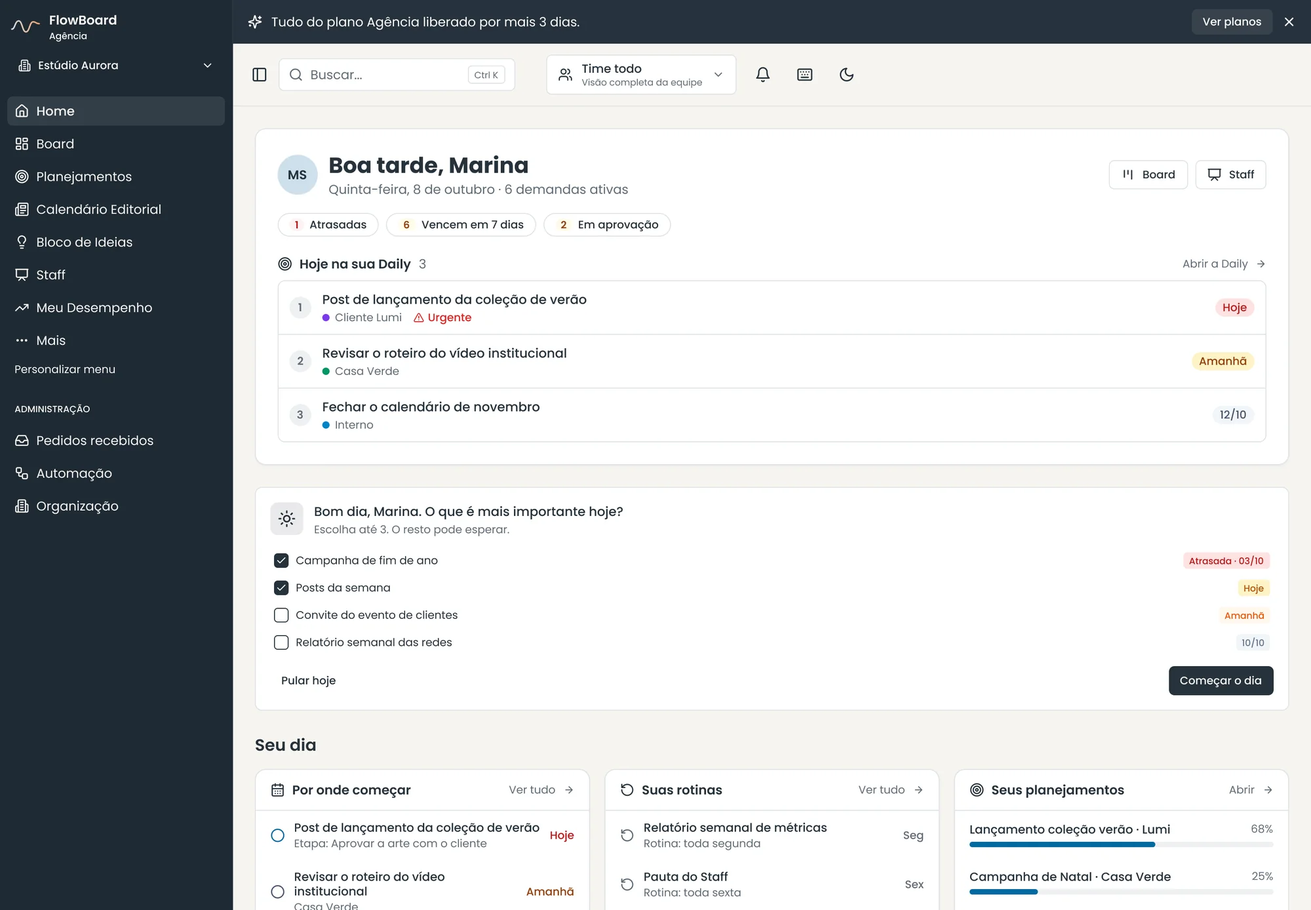
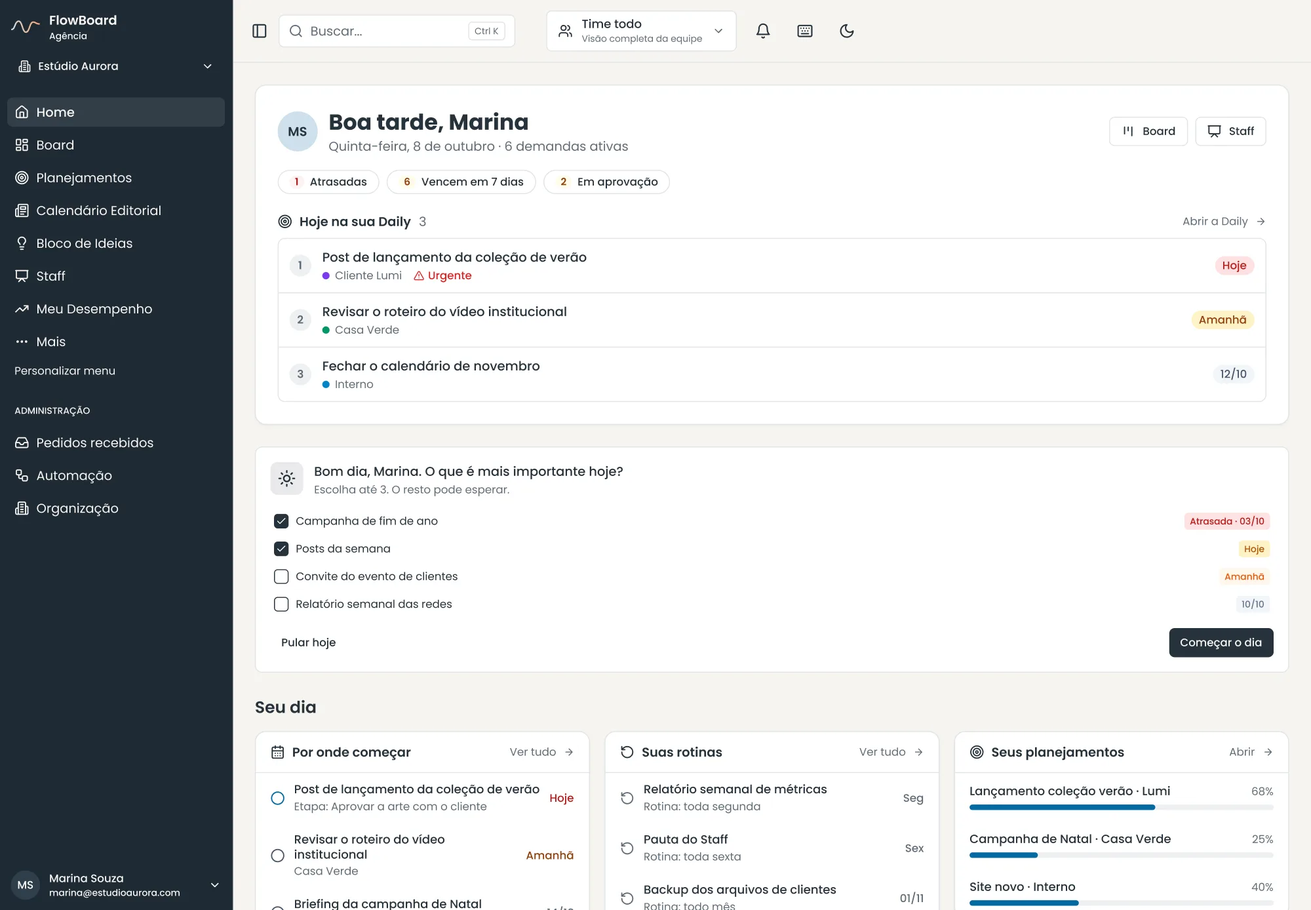
FlowBoard: processo como linha do tempo com status, números que contam, aprendizados em cartões, próximos passos em checklist; recortes próprios nos cartões de público; Home sem a faixa do plano

diff --git a/flowboard/index.html b/flowboard/index.html
@@ -85,7 +85,7 @@
     <h2 class="cs__h">Para quem é</h2>
     <div class="cs__body cs__body--wide"><p class="study-who__intro">Para times que vivem de pedido e prazo: comunicação, marketing, criação, agências e estúdios que atendem vários clientes ou áreas ao mesmo tempo. O produto tem dois lados, e uma pessoa que pode estar em qualquer um deles.</p>
       <p class="hand study-who__note" aria-hidden="true">a mesma pessoa pode ser as três<svg viewBox="0 0 60 40"><path d="M6 6 C 20 8, 40 14, 48 34 M 40 29 L 48 35 L 53 26"/></svg></p>
-      <ul class="who-cards"><li class="who-card"><figure class="zoom"><img style="object-position:left top" src="../assets/img/fb-avisos.webp" alt="Demanda aberta com status, aprovador e comentários" loading="lazy" width="2000" height="1318"></figure><div><b>Quem pede</b><p>Quer abrir o pedido em poucos campos e acompanhar o andamento sem mandar mensagem perguntando.</p></div></li><li class="who-card"><figure class="zoom"><img style="object-position:40% 30%" src="../assets/img/fb-daily.webp" alt="Daily da semana, com o que fazer em cada dia" loading="lazy" width="2000" height="1388"></figure><div><b>Quem atende</b><p>Precisa de uma fila clara, saber o que fazer agora e conseguir mostrar o que está parado e por quê.</p></div></li><li class="who-card"><figure class="zoom"><img style="object-position:center 8%" src="../assets/img/fb-foco.webp" alt="Configurações de foco e bem-estar no celular" loading="lazy" width="780" height="1688"></figure><div><b>Quem se distrai fácil</b><p>Trava na hora de começar ou perde a noção do tempo. Essa pessoa não é um caso à parte: é o critério de desenho.</p></div></li></ul>
+      <ul class="who-cards"><li class="who-card"><figure class="zoom"><img style="--z:1;transform-origin:50% 50%;object-position:50% 50%" src="../assets/img/fb-who-pede.webp" alt="Demanda aberta com status, aprovador e comentários" loading="lazy" width="960" height="720"></figure><div><b>Quem pede</b><p>Quer abrir o pedido em poucos campos e acompanhar o andamento sem mandar mensagem perguntando.</p></div></li><li class="who-card"><figure class="zoom"><img style="--z:1;transform-origin:50% 50%;object-position:50% 50%" src="../assets/img/fb-who-atende.webp" alt="Daily da semana, com o que fazer em cada dia" loading="lazy" width="960" height="720"></figure><div><b>Quem atende</b><p>Precisa de uma fila clara, saber o que fazer agora e conseguir mostrar o que está parado e por quê.</p></div></li><li class="who-card"><figure class="zoom"><img style="--z:1;transform-origin:50% 50%;object-position:50% 50%" src="../assets/img/fb-who-foco.webp" alt="Configurações de foco e bem-estar no celular" loading="lazy" width="960" height="720"></figure><div><b>Quem se distrai fácil</b><p>Trava na hora de começar ou perde a noção do tempo. Essa pessoa não é um caso à parte: é o critério de desenho.</p></div></li></ul>
     </div>
   </section>
 
@@ -118,14 +118,15 @@
   <section class="wrap cs">
     <h2 class="cs__h">O processo</h2>
     <div class="cs__body"><p>Boa parte desse processo ganhou método na Pós-Graduação em UX/UI e Produtos Digitais da EBAC, que estou terminando. Usei o FlowBoard como objeto de todos os exercícios, então cada etapa abaixo foi feita no produto de verdade, não num caso inventado.</p>
-      <ol class="study-proc"><li><b>Pesquisa de campo</b><p>28 respondentes e uma pergunta aberta que mudou a prioridade do produto: a espera pesava mais do que a distração.</p></li><li><b>Heurísticas e referências</b><p>Analisei ferramentas de gestão pela lente de memória de trabalho, percepção de tempo e carga de estímulo.</p></li><li><b>Baixa fidelidade</b><p>Wireframes para acertar a hierarquia de cada tela antes de pensar em cor.</p></li><li><b>Design system</b><p>Cores, tipografia, espaçamento e componentes no Figma, com variáveis de claro e escuro iguais aos tokens do código.</p></li><li><b>Protótipo de alta fidelidade</b><p>Mais de 120 telas no Figma, com os fluxos principais navegáveis no computador e no celular.</p></li><li><b>Teste de usabilidade</b><p>Roteiro de teste não moderado com quatro hipóteses e duas missões: criar uma demanda e concluir uma etapa. Montei no Maze com o protótipo do Figma, defini o caminho esperado de cada missão e fiz o teste completo antes de liberar. A rodada com cinco participantes é o próximo passo.</p></li><li><b>Código</b><p>Eu mesmo programo o que desenho, em React e TypeScript. A distância entre decidir e ver a tela funcionando fica curta.</p></li></ol>
+      <div class="proc-bar"><span>Etapas do processo</span><i style="--v:71%"></i><b>5/7</b></div>
+      <ol class="study-proc"><li class="is-done"><div class="study-proc__t"><b>Pesquisa de campo</b><em class="pill pill--done">Concluído</em></div><p>28 respondentes e uma pergunta aberta que mudou a prioridade do produto: a espera pesava mais do que a distração.</p></li><li class="is-done"><div class="study-proc__t"><b>Heurísticas e referências</b><em class="pill pill--done">Concluído</em></div><p>Analisei ferramentas de gestão pela lente de memória de trabalho, percepção de tempo e carga de estímulo.</p></li><li class="is-done"><div class="study-proc__t"><b>Baixa fidelidade</b><em class="pill pill--done">Concluído</em></div><p>Wireframes para acertar a hierarquia de cada tela antes de pensar em cor.</p></li><li class="is-done"><div class="study-proc__t"><b>Design system</b><em class="pill pill--done">Concluído</em></div><p>Cores, tipografia, espaçamento e componentes no Figma, com variáveis de claro e escuro iguais aos tokens do código.</p></li><li class="is-done"><div class="study-proc__t"><b>Protótipo de alta fidelidade</b><em class="pill pill--done">Concluído</em></div><p>Mais de 120 telas no Figma, com os fluxos principais navegáveis no computador e no celular.</p></li><li class="is-doing"><div class="study-proc__t"><b>Teste de usabilidade</b><em class="pill pill--doing">Em andamento</em></div><p>Roteiro de teste não moderado com quatro hipóteses e duas missões: criar uma demanda e concluir uma etapa. Montei no Maze com o protótipo do Figma, defini o caminho esperado de cada missão e fiz o teste completo antes de liberar. A rodada com cinco participantes é o próximo passo.</p></li><li class="is-ongoing"><div class="study-proc__t"><b>Código</b><em class="pill pill--ongoing">Contínuo</em></div><p>Eu mesmo programo o que desenho, em React e TypeScript. A distância entre decidir e ver a tela funcionando fica curta.</p></li></ol>
     </div>
   </section>
 
   <section class="cs-result">
     <div class="wrap">
       <h2 class="cs__h">Em números</h2>
-      <ul class="facts"><li><b>28</b><span>respondentes na pesquisa de campo</span></li><li><b>+120</b><span>telas desenhadas no Figma</span></li><li><b>4</b><span>hipóteses no teste de usabilidade</span></li><li><b>5</b><span>jeitos de ver a mesma demanda</span></li></ul>
+      <ul class="facts"><li><b data-to="28" data-pre="">28</b><span>respondentes na pesquisa de campo</span></li><li><b data-to="120" data-pre="+">+120</b><span>telas desenhadas no Figma</span></li><li><b data-to="4" data-pre="">4</b><span>hipóteses no teste de usabilidade</span></li><li><b data-to="5" data-pre="">5</b><span>jeitos de ver a mesma demanda</span></li></ul>
     </div>
   </section>
 
@@ -136,9 +137,11 @@
 
   <section class="wrap cs">
     <h2 class="cs__h">O que aprendi</h2>
-    <div class="cs__body">
-      <ul class="study-list study-list--learn"><li><b>A pesquisa corrigiu a minha hipótese.</b><p>Eu achava que o problema principal era distração. As respostas apontaram espera. Isso virou a próxima melhoria da fila: mostrar há quanto tempo uma demanda está parada e quem precisa agir para destravar.</p></li><li><b>Acessibilidade cognitiva é bom design para todo mundo.</b><p>Os recursos que nasceram para mim, como o dia com fim, os avisos agrupados e menos estímulo na tela, são os que mais fazem sentido para o time inteiro.</p></li><li><b>Escrever a hipótese que eu quero derrubar.</b><p>No roteiro do teste deixei registrado qual hipótese eu esperava ver cair: que a barra de progresso, ao lado do prazo, fosse lida como tempo passado e não como etapas concluídas. Saber onde posso estar errado deixa o teste mais honesto.</p></li><li><b>Desenhar e programar a mesma coisa.</b><p>Com as variáveis do Figma espelhando o código, cada decisão de design já nasce com custo conhecido. Isso me obrigou a decidir cedo e a pensar duas vezes antes de cada tela nova.</p></li></ul>
-      <p class="study-next">Próximos passos: rodar o teste com cinco pessoas, levar o tempo parado para o cartão e transformar a prioridade numa regra que todo o time enxergue, não numa escolha de quem atende.</p>
+    <div class="cs__body cs__body--wide">
+      <ul class="study-learn"><li><span class="learn-n">01</span><b>A pesquisa corrigiu a minha hipótese.</b><p>Eu achava que o problema principal era distração. As respostas apontaram espera. Isso virou a próxima melhoria da fila: mostrar há quanto tempo uma demanda está parada e quem precisa agir para destravar.</p></li><li><span class="learn-n">02</span><b>Acessibilidade cognitiva é bom design para todo mundo.</b><p>Os recursos que nasceram para mim, como o dia com fim, os avisos agrupados e menos estímulo na tela, são os que mais fazem sentido para o time inteiro.</p></li><li><span class="learn-n">03</span><b>Escrever a hipótese que eu quero derrubar.</b><p>No roteiro do teste deixei registrado qual hipótese eu esperava ver cair: que a barra de progresso, ao lado do prazo, fosse lida como tempo passado e não como etapas concluídas. Saber onde posso estar errado deixa o teste mais honesto.</p></li><li><span class="learn-n">04</span><b>Desenhar e programar a mesma coisa.</b><p>Com as variáveis do Figma espelhando o código, cada decisão de design já nasce com custo conhecido. Isso me obrigou a decidir cedo e a pensar duas vezes antes de cada tela nova.</p></li></ul>
+      <div class="study-next"><div class="study-next__head"><span class="pill pill--doing">Próximos passos</span><span class="study-next__bar"><i></i><b>0/3</b></span></div>
+        <ul><li><i aria-hidden="true"></i>Rodar o teste de usabilidade com cinco pessoas</li><li><i aria-hidden="true"></i>Levar o tempo parado para o próprio cartão</li><li><i aria-hidden="true"></i>Transformar a prioridade numa regra que todo o time enxerga</li></ul>
+        <p class="hand" aria-hidden="true">o estudo continua</p></div>
     </div>
   </section>
 

diff --git a/en/flowboard/index.html b/en/flowboard/index.html
@@ -85,7 +85,7 @@
     <h2 class="cs__h">Who it is for</h2>
     <div class="cs__body cs__body--wide"><p class="study-who__intro">For teams that live by requests and deadlines: communications, marketing, creative, agencies and studios serving several clients or departments at once. The product has two sides, and one person who can be on either of them.</p>
       <p class="hand study-who__note" aria-hidden="true">one person can be all three<svg viewBox="0 0 60 40"><path d="M6 6 C 20 8, 40 14, 48 34 M 40 29 L 48 35 L 53 26"/></svg></p>
-      <ul class="who-cards"><li class="who-card"><figure class="zoom"><img style="object-position:left top" src="../../assets/img/fb-avisos.webp" alt="Open task with status, approver and comments" loading="lazy" width="2000" height="1318"></figure><div><b>Requesters</b><p>Want to file a request in a few fields and follow it without sending a message to ask.</p></div></li><li class="who-card"><figure class="zoom"><img style="object-position:40% 30%" src="../../assets/img/fb-daily.webp" alt="Weekly daily, with what to do each day" loading="lazy" width="2000" height="1388"></figure><div><b>The team</b><p>Need a clear queue, to know what to do now and to be able to show what is stuck and why.</p></div></li><li class="who-card"><figure class="zoom"><img style="object-position:center 8%" src="../../assets/img/fb-foco.webp" alt="Focus and wellbeing settings on mobile" loading="lazy" width="780" height="1688"></figure><div><b>People who get distracted easily</b><p>Freeze when starting or lose track of time. This person isn&#x27;t an edge case: they are the design criterion.</p></div></li></ul>
+      <ul class="who-cards"><li class="who-card"><figure class="zoom"><img style="--z:1;transform-origin:50% 50%;object-position:50% 50%" src="../../assets/img/fb-who-pede.webp" alt="Open task with status, approver and comments" loading="lazy" width="960" height="720"></figure><div><b>Requesters</b><p>Want to file a request in a few fields and follow it without sending a message to ask.</p></div></li><li class="who-card"><figure class="zoom"><img style="--z:1;transform-origin:50% 50%;object-position:50% 50%" src="../../assets/img/fb-who-atende.webp" alt="Weekly daily, with what to do each day" loading="lazy" width="960" height="720"></figure><div><b>The team</b><p>Need a clear queue, to know what to do now and to be able to show what is stuck and why.</p></div></li><li class="who-card"><figure class="zoom"><img style="--z:1;transform-origin:50% 50%;object-position:50% 50%" src="../../assets/img/fb-who-foco.webp" alt="Focus and wellbeing settings on mobile" loading="lazy" width="960" height="720"></figure><div><b>People who get distracted easily</b><p>Freeze when starting or lose track of time. This person isn&#x27;t an edge case: they are the design criterion.</p></div></li></ul>
     </div>
   </section>
 
@@ -118,14 +118,15 @@
   <section class="wrap cs">
     <h2 class="cs__h">The process</h2>
     <div class="cs__body"><p>Much of this process gained method during my postgraduate course in UX/UI and Digital Products at EBAC, which I&#x27;m now finishing. I used FlowBoard as the subject of every assignment, so each stage below was done on the real product, not on a made-up case.</p>
-      <ol class="study-proc"><li><b>Field research</b><p>28 respondents and one open question that changed the product&#x27;s priorities: waiting weighed more than distraction.</p></li><li><b>Heuristics and references</b><p>I reviewed work management tools through the lens of working memory, sense of time and stimulus load.</p></li><li><b>Low fidelity</b><p>Wireframes to get each screen&#x27;s hierarchy right before thinking about colour.</p></li><li><b>Design system</b><p>Colour, type, spacing and components in Figma, with light and dark variables matching the code tokens.</p></li><li><b>High-fidelity prototype</b><p>More than 120 screens in Figma, with the main flows clickable on desktop and mobile.</p></li><li><b>Usability testing</b><p>An unmoderated test script with four hypotheses and two missions: create a request and complete a step. I built it in Maze with the Figma prototype, set the expected path for each mission and ran a full dry run before opening it. The round with five participants is the next step.</p></li><li><b>Code</b><p>I code what I design, in React and TypeScript. The distance between a decision and a working screen stays short.</p></li></ol>
+      <div class="proc-bar"><span>Process steps</span><i style="--v:71%"></i><b>5/7</b></div>
+      <ol class="study-proc"><li class="is-done"><div class="study-proc__t"><b>Field research</b><em class="pill pill--done">Done</em></div><p>28 respondents and one open question that changed the product&#x27;s priorities: waiting weighed more than distraction.</p></li><li class="is-done"><div class="study-proc__t"><b>Heuristics and references</b><em class="pill pill--done">Done</em></div><p>I reviewed work management tools through the lens of working memory, sense of time and stimulus load.</p></li><li class="is-done"><div class="study-proc__t"><b>Low fidelity</b><em class="pill pill--done">Done</em></div><p>Wireframes to get each screen&#x27;s hierarchy right before thinking about colour.</p></li><li class="is-done"><div class="study-proc__t"><b>Design system</b><em class="pill pill--done">Done</em></div><p>Colour, type, spacing and components in Figma, with light and dark variables matching the code tokens.</p></li><li class="is-done"><div class="study-proc__t"><b>High-fidelity prototype</b><em class="pill pill--done">Done</em></div><p>More than 120 screens in Figma, with the main flows clickable on desktop and mobile.</p></li><li class="is-doing"><div class="study-proc__t"><b>Usability testing</b><em class="pill pill--doing">In progress</em></div><p>An unmoderated test script with four hypotheses and two missions: create a request and complete a step. I built it in Maze with the Figma prototype, set the expected path for each mission and ran a full dry run before opening it. The round with five participants is the next step.</p></li><li class="is-ongoing"><div class="study-proc__t"><b>Code</b><em class="pill pill--ongoing">Ongoing</em></div><p>I code what I design, in React and TypeScript. The distance between a decision and a working screen stays short.</p></li></ol>
     </div>
   </section>
 
   <section class="cs-result">
     <div class="wrap">
       <h2 class="cs__h">In numbers</h2>
-      <ul class="facts"><li><b>28</b><span>field survey respondents</span></li><li><b>+120</b><span>screens designed in Figma</span></li><li><b>4</b><span>usability test hypotheses</span></li><li><b>5</b><span>ways to view the same request</span></li></ul>
+      <ul class="facts"><li><b data-to="28" data-pre="">28</b><span>field survey respondents</span></li><li><b data-to="120" data-pre="+">+120</b><span>screens designed in Figma</span></li><li><b data-to="4" data-pre="">4</b><span>usability test hypotheses</span></li><li><b data-to="5" data-pre="">5</b><span>ways to view the same request</span></li></ul>
     </div>
   </section>
 
@@ -136,9 +137,11 @@
 
   <section class="wrap cs">
     <h2 class="cs__h">What I learned</h2>
-    <div class="cs__body">
-      <ul class="study-list study-list--learn"><li><b>The research corrected my hypothesis.</b><p>I thought the main problem was distraction. The answers pointed to waiting. That became the next improvement to the queue: showing how long a request has been stuck and who needs to act to unblock it.</p></li><li><b>Cognitive accessibility is good design for everyone.</b><p>The features that started out for me, like a day with an end, grouped notifications and less on-screen stimulus, are the ones that make the most sense for the whole team.</p></li><li><b>Write down the hypothesis I want to break.</b><p>In the test script I wrote down which hypothesis I expected to fail: that the progress bar, sitting next to the deadline, would be read as time elapsed instead of steps completed. Knowing where I might be wrong makes the test more honest.</p></li><li><b>Designing and coding the same thing.</b><p>With Figma variables mirroring the code, every design decision comes with a known cost. That pushed me to decide early and to think twice before every new screen.</p></li></ul>
-      <p class="study-next">Next steps: run the test with five people, bring time-stuck onto the card and turn priority into a rule the whole team can see, rather than a call made by whoever handles the request.</p>
+    <div class="cs__body cs__body--wide">
+      <ul class="study-learn"><li><span class="learn-n">01</span><b>The research corrected my hypothesis.</b><p>I thought the main problem was distraction. The answers pointed to waiting. That became the next improvement to the queue: showing how long a request has been stuck and who needs to act to unblock it.</p></li><li><span class="learn-n">02</span><b>Cognitive accessibility is good design for everyone.</b><p>The features that started out for me, like a day with an end, grouped notifications and less on-screen stimulus, are the ones that make the most sense for the whole team.</p></li><li><span class="learn-n">03</span><b>Write down the hypothesis I want to break.</b><p>In the test script I wrote down which hypothesis I expected to fail: that the progress bar, sitting next to the deadline, would be read as time elapsed instead of steps completed. Knowing where I might be wrong makes the test more honest.</p></li><li><span class="learn-n">04</span><b>Designing and coding the same thing.</b><p>With Figma variables mirroring the code, every design decision comes with a known cost. That pushed me to decide early and to think twice before every new screen.</p></li></ul>
+      <div class="study-next"><div class="study-next__head"><span class="pill pill--doing">Next steps</span><span class="study-next__bar"><i></i><b>0/3</b></span></div>
+        <ul><li><i aria-hidden="true"></i>Run the usability test with five people</li><li><i aria-hidden="true"></i>Bring time-stuck onto the card itself</li><li><i aria-hidden="true"></i>Turn priority into a rule the whole team can see</li></ul>
+        <p class="hand" aria-hidden="true">the study goes on</p></div>
     </div>
   </section>
 

diff --git a/styles.css b/styles.css
@@ -655,15 +655,57 @@ em { font-style: italic; }
 .who-cards { list-style: none; margin: 0; padding: 0; display: grid; grid-template-columns: repeat(3, minmax(0, 1fr)); gap: 20px; }
 .who-card { background: #fbf9f4; border: 1px solid var(--line); border-radius: 10px; overflow: hidden; display: flex; flex-direction: column; }
 .who-card figure { margin: 0; aspect-ratio: 4 / 3; border-bottom: 1px solid var(--line); background: #f6f4ef; overflow: hidden; }
-.who-card img { display: block; width: 100%; height: 100%; object-fit: cover; transition: transform .5s; }
-.who-card:hover img { transform: scale(1.04); }
+.who-card img { display: block; width: 100%; height: 100%; object-fit: cover; transform: scale(var(--z, 1)); transition: transform .5s; }
+.who-card:hover img { transform: scale(calc(var(--z, 1) * 1.05)); }
 .who-card div { padding: 18px 20px 22px; }
 .who-card b { display: block; font-family: var(--serif); font-weight: 400; font-size: clamp(24px, 2.2vw, 30px); line-height: 1.1; margin-bottom: 8px; }
 .who-card p { margin: 0 !important; font-size: 16px !important; color: var(--ink-2); }
 @media (max-width: 900px) { .who-cards { grid-template-columns: 1fr; } .who-card figure { aspect-ratio: 16 / 10; } }
 @media (max-width: 640px) {
   .study-stats--viz li { flex-direction: row; align-items: center; justify-content: flex-start; gap: 16px; }
-  .viz-ring { width: 92px; }
+  .viz-ring { width: 92px; flex: none; }
+  .study-stats--viz .viz-ring b { font-size: 26px; }
   .viz-dots { grid-template-columns: repeat(7, 9px); gap: 5px; }
   .viz-dots i { width: 9px; height: 9px; }
 }
+
+/* Estudo do FlowBoard: O processo como linha do tempo com status do produto */
+.pill { display: inline-block; font-style: normal; font-size: 11px; font-weight: 600; letter-spacing: .02em; padding: 3px 9px; border-radius: 999px; white-space: nowrap; }
+.pill--done { background: #d1fae5; color: #047857; }
+.pill--doing { background: #e0f2fe; color: #0369a1; }
+.pill--ongoing { background: #ffedd5; color: #9a3412; }
+.proc-bar { display: flex; align-items: center; gap: 14px; margin: 28px 0 8px; font-size: 14px; color: var(--ink-2); }
+.proc-bar i { position: relative; flex: 1; max-width: 260px; height: 6px; border-radius: 3px; background: var(--paper-2); overflow: hidden; }
+.proc-bar i::after { content: ""; position: absolute; inset: 0 auto 0 0; width: var(--v); background: #10b981; border-radius: 3px; }
+.proc-bar b { font-weight: 600; color: var(--ink); }
+.study-proc { position: relative; margin-top: 16px; }
+.study-proc::before { content: ""; position: absolute; left: 21px; top: 30px; bottom: 30px; width: 2px; background: var(--line); }
+.study-proc li { position: relative; grid-template-columns: 44px 1fr; column-gap: 18px; border-top: 0; padding: 12px 0; }
+.study-proc li::before {
+  grid-row: span 2; z-index: 1; width: 44px; height: 44px; border-radius: 50%; display: grid; place-items: center;
+  font-size: 18px; line-height: 1; background: var(--paper); border: 1.5px solid var(--line); color: var(--ink-2);
+}
+.study-proc li.is-done::before { background: #ecfdf5; border-color: #6ee7b7; color: #047857; }
+.study-proc li.is-doing::before { background: #f0f9ff; border-color: #38bdf8; color: #0369a1; box-shadow: 0 0 0 5px rgba(56, 189, 248, .18); }
+.study-proc li.is-ongoing::before { background: #fff7ed; border: 1.5px dashed #fb923c; color: #9a3412; }
+.study-proc__t { display: flex; flex-wrap: wrap; align-items: center; gap: 6px 10px; padding-top: 9px; margin-bottom: 4px; }
+.study-proc__t b { margin: 0; }
+
+/* Estudo do FlowBoard: O que aprendi */
+.study-learn { list-style: none; margin: 0; padding: 0; display: grid; grid-template-columns: repeat(2, minmax(0, 1fr)); gap: 20px; }
+.study-learn li { background: #fbf9f4; border: 1px solid var(--line); border-radius: 10px; padding: 22px 24px 26px; }
+.learn-n { display: block; font-family: var(--serif); font-size: 44px; line-height: 1; color: var(--accent); margin-bottom: 14px; }
+.study-learn b { display: block; font-family: var(--serif); font-weight: 400; font-size: clamp(24px, 2.2vw, 30px); line-height: 1.12; margin-bottom: 10px; }
+.study-learn p { margin: 0 !important; font-size: 16px !important; color: var(--ink-2); }
+.study-learn li:first-child { background: var(--case); border-color: var(--case); color: #f4f1ea; }
+.study-learn li:first-child p { color: #d9d3c6; }
+.study-learn li:first-child .learn-n { color: var(--highlight); }
+.study-next { position: relative; max-width: 560px; margin-top: 32px !important; padding: 18px 20px 20px; background: #fff; border: 1px solid var(--line); border-radius: 12px; box-shadow: 0 14px 34px -22px rgba(23, 21, 15, .4); font-size: 16px !important; }
+.study-next__head { display: flex; align-items: center; justify-content: space-between; gap: 12px; margin-bottom: 12px; }
+.study-next__bar { display: flex; align-items: center; gap: 8px; font-size: 13px; color: var(--ink-2); }
+.study-next__bar i { width: 56px; height: 5px; border-radius: 3px; background: var(--paper-2); }
+.study-next ul { list-style: none; margin: 0; padding: 0; }
+.study-next li { display: flex; align-items: center; gap: 12px; padding: 9px 0; border-top: 1px solid #efeae0; font-size: 16px; }
+.study-next li i { flex: none; width: 18px; height: 18px; border: 1.5px solid #b9b1a2; border-radius: 5px; }
+.study-next .hand { position: absolute; right: -8px; bottom: -34px; margin: 0 !important; font-size: 24px !important; color: var(--accent); transform: rotate(-4deg); }
+@media (max-width: 900px) { .study-learn { grid-template-columns: 1fr; } .study-next .hand { right: 8px; } }

diff --git a/main.js b/main.js
@@ -127,3 +127,23 @@ document.querySelectorAll('.study-stats--viz').forEach((el) => {
   }, { threshold: 0.5 });
   io.observe(el);
 });
+
+// Estudo do FlowBoard: "Em números" conta a partir de zero quando aparece
+document.querySelectorAll('.facts b[data-to]').forEach((el) => {
+  const to = parseInt(el.dataset.to, 10);
+  if (calm || !to) return;
+  const pre = el.dataset.pre || '';
+  el.textContent = pre + '0';
+  const io = new IntersectionObserver(([en]) => {
+    if (!en.isIntersecting) return;
+    io.disconnect();
+    const t0 = performance.now(), dur = 1100;
+    const step = (t) => {
+      const k = Math.min(1, (t - t0) / dur), ease = 1 - Math.pow(1 - k, 3);
+      el.textContent = pre + Math.round(to * ease);
+      if (k < 1) requestAnimationFrame(step);
+    };
+    requestAnimationFrame(step);
+  }, { threshold: 0.6 });
+  io.observe(el);
+});

diff --git a/build.py b/build.py
@@ -545,9 +545,9 @@ FB_STUDY = {
                   "For teams that live by requests and deadlines: communications, marketing, creative, agencies and "
                   "studios serving several clients or departments at once. The product has two sides, and one person who can be on either of them."),
     "who_note": ("a mesma pessoa pode ser as três", "one person can be all three"),
-    "who_imgs": [("fb-avisos.webp", "left top", ("Demanda aberta com status, aprovador e comentários", "Open task with status, approver and comments")),
-                 ("fb-daily.webp", "40% 30%", ("Daily da semana, com o que fazer em cada dia", "Weekly daily, with what to do each day")),
-                 ("fb-foco.webp", "center 8%", ("Configurações de foco e bem-estar no celular", "Focus and wellbeing settings on mobile"))],
+    "who_imgs": [("fb-who-pede.webp", "1;50% 50%", ("Demanda aberta com status, aprovador e comentários", "Open task with status, approver and comments")),
+                 ("fb-who-atende.webp", "1;50% 50%", ("Daily da semana, com o que fazer em cada dia", "Weekly daily, with what to do each day")),
+                 ("fb-who-foco.webp", "1;50% 50%", ("Configurações de foco e bem-estar no celular", "Focus and wellbeing settings on mobile"))],
     "who": [
         (("Quem pede", "Requesters"),
          ("Quer abrir o pedido em poucos campos e acompanhar o andamento sem mandar mensagem perguntando.",
@@ -676,6 +676,9 @@ FB_STUDY = {
           "With Figma variables mirroring the code, every design decision comes with a known cost. That pushed me to decide "
           "early and to think twice before every new screen.")),
     ],
+    "next_items": [("Rodar o teste de usabilidade com cinco pessoas", "Run the usability test with five people"),
+                   ("Levar o tempo parado para o próprio cartão", "Bring time-stuck onto the card itself"),
+                   ("Transformar a prioridade numa regra que todo o time enxerga", "Turn priority into a rule the whole team can see")],
     "next_steps": ("Próximos passos: rodar o teste com cinco pessoas, levar o tempo parado para o cartão e transformar a "
                    "prioridade numa regra que todo o time enxergue, não numa escolha de quem atende.",
                    "Next steps: run the test with five people, bring time-stuck onto the card and turn priority into a rule "
@@ -717,7 +720,7 @@ def fb_study_page():
     who = ""
     for (t, d), (src, pos, alt) in zip(s["who"], s["who_imgs"]):
         who += (f'<li class="who-card"><figure class="zoom">{img(p, src, alt)}</figure>'
-                f'<div><b>{e(t)}</b><p>{e(d)}</p></div></li>').replace('<img ', f'<img style="object-position:{pos}" ', 1)
+                f'<div><b>{e(t)}</b><p>{e(d)}</p></div></li>').replace('<img ', '<img style="--z:{0};transform-origin:{1};object-position:{1}" '.format(*pos.split(";")), 1)
     decisions = ""
     for n, d in enumerate(s["decisions"], 1):
         figs = "".join(fig(p, k, src, a) for k, src, a in d["figs"])
@@ -726,10 +729,18 @@ def fb_study_page():
         <div class="step__text"><span class="step__n">{n:02d}</span><h3 class="step__t">{e(d['t'])}</h3>{paras(d['text'])}</div>
         <div class="cf-grid">{figs}</div>
       </div>"""
-    proc = "".join(f'<li><b>{e(t)}</b><p>{e(d)}</p></li>' for t, d in s["process"])
-    facts = "".join(f'<li><b>{n}</b><span>{e(t)}</span></li>' for n, t in s["facts"])
+    pst = ["done"] * 5 + ["doing", "ongoing"]
+    plabel = {"done": ("Concluído", "Done"), "doing": ("Em andamento", "In progress"), "ongoing": ("Contínuo", "Ongoing")}
+    proc = "".join(f'<li class="is-{st}"><div class="study-proc__t"><b>{e(t)}</b><em class="pill pill--{st}">{e(plabel[st])}</em></div><p>{e(d)}</p></li>'
+                   for (t, d), st in zip(s["process"], pst))
+    ndone = pst.count("done")
+    proc_bar = (f'<div class="proc-bar"><span>{e(("Etapas do processo", "Process steps"))}</span>'
+                f'<i style="--v:{ndone / len(pst) * 100:.0f}%"></i><b>{ndone}/{len(pst)}</b></div>')
+    facts = "".join(f'<li><b data-to="{n.lstrip("+")}" data-pre="{"+" if n.startswith("+") else ""}">{n}</b><span>{e(t)}</span></li>' for n, t in s["facts"])
     gallery = "".join(fig(p, k, src, a, u) for k, src, a, u in s["gallery"])
-    learn = "".join(f'<li><b>{e(t)}</b><p>{e(d)}</p></li>' for t, d in s["learn"])
+    learn = "".join(f'<li><span class="learn-n">{k:02d}</span><b>{e(t)}</b><p>{e(d)}</p></li>' for k, (t, d) in enumerate(s["learn"], 1))
+    nitems = "".join(f'<li><i aria-hidden="true"></i>{e(x)}</li>' for x in s["next_items"])
+    nlen = len(s["next_items"])
     nxt = CASES[1]
     path = ("" if LANG == "pt" else "en/") + "flowboard/"
     alt_path = ("en/" if LANG == "pt" else "") + "flowboard/"
@@ -807,6 +818,7 @@ def fb_study_page():
   <section class="wrap cs">
     <h2 class="cs__h">{e(UI['process'])}</h2>
     <div class="cs__body">{paras(s['process_intro'])}
+      {proc_bar}
       <ol class="study-proc">{proc}</ol>
     </div>
   </section>
@@ -825,9 +837,11 @@ def fb_study_page():
 
   <section class="wrap cs">
     <h2 class="cs__h">{e(('O que aprendi', 'What I learned'))}</h2>
-    <div class="cs__body">
-      <ul class="study-list study-list--learn">{learn}</ul>
-      <p class="study-next">{e(s['next_steps'])}</p>
+    <div class="cs__body cs__body--wide">
+      <ul class="study-learn">{learn}</ul>
+      <div class="study-next"><div class="study-next__head"><span class="pill pill--doing">{e(("Próximos passos", "Next steps"))}</span><span class="study-next__bar"><i></i><b>0/{nlen}</b></span></div>
+        <ul>{nitems}</ul>
+        <p class="hand" aria-hidden="true">{e(("o estudo continua", "the study goes on"))}</p></div>
     </div>
   </section>
 
